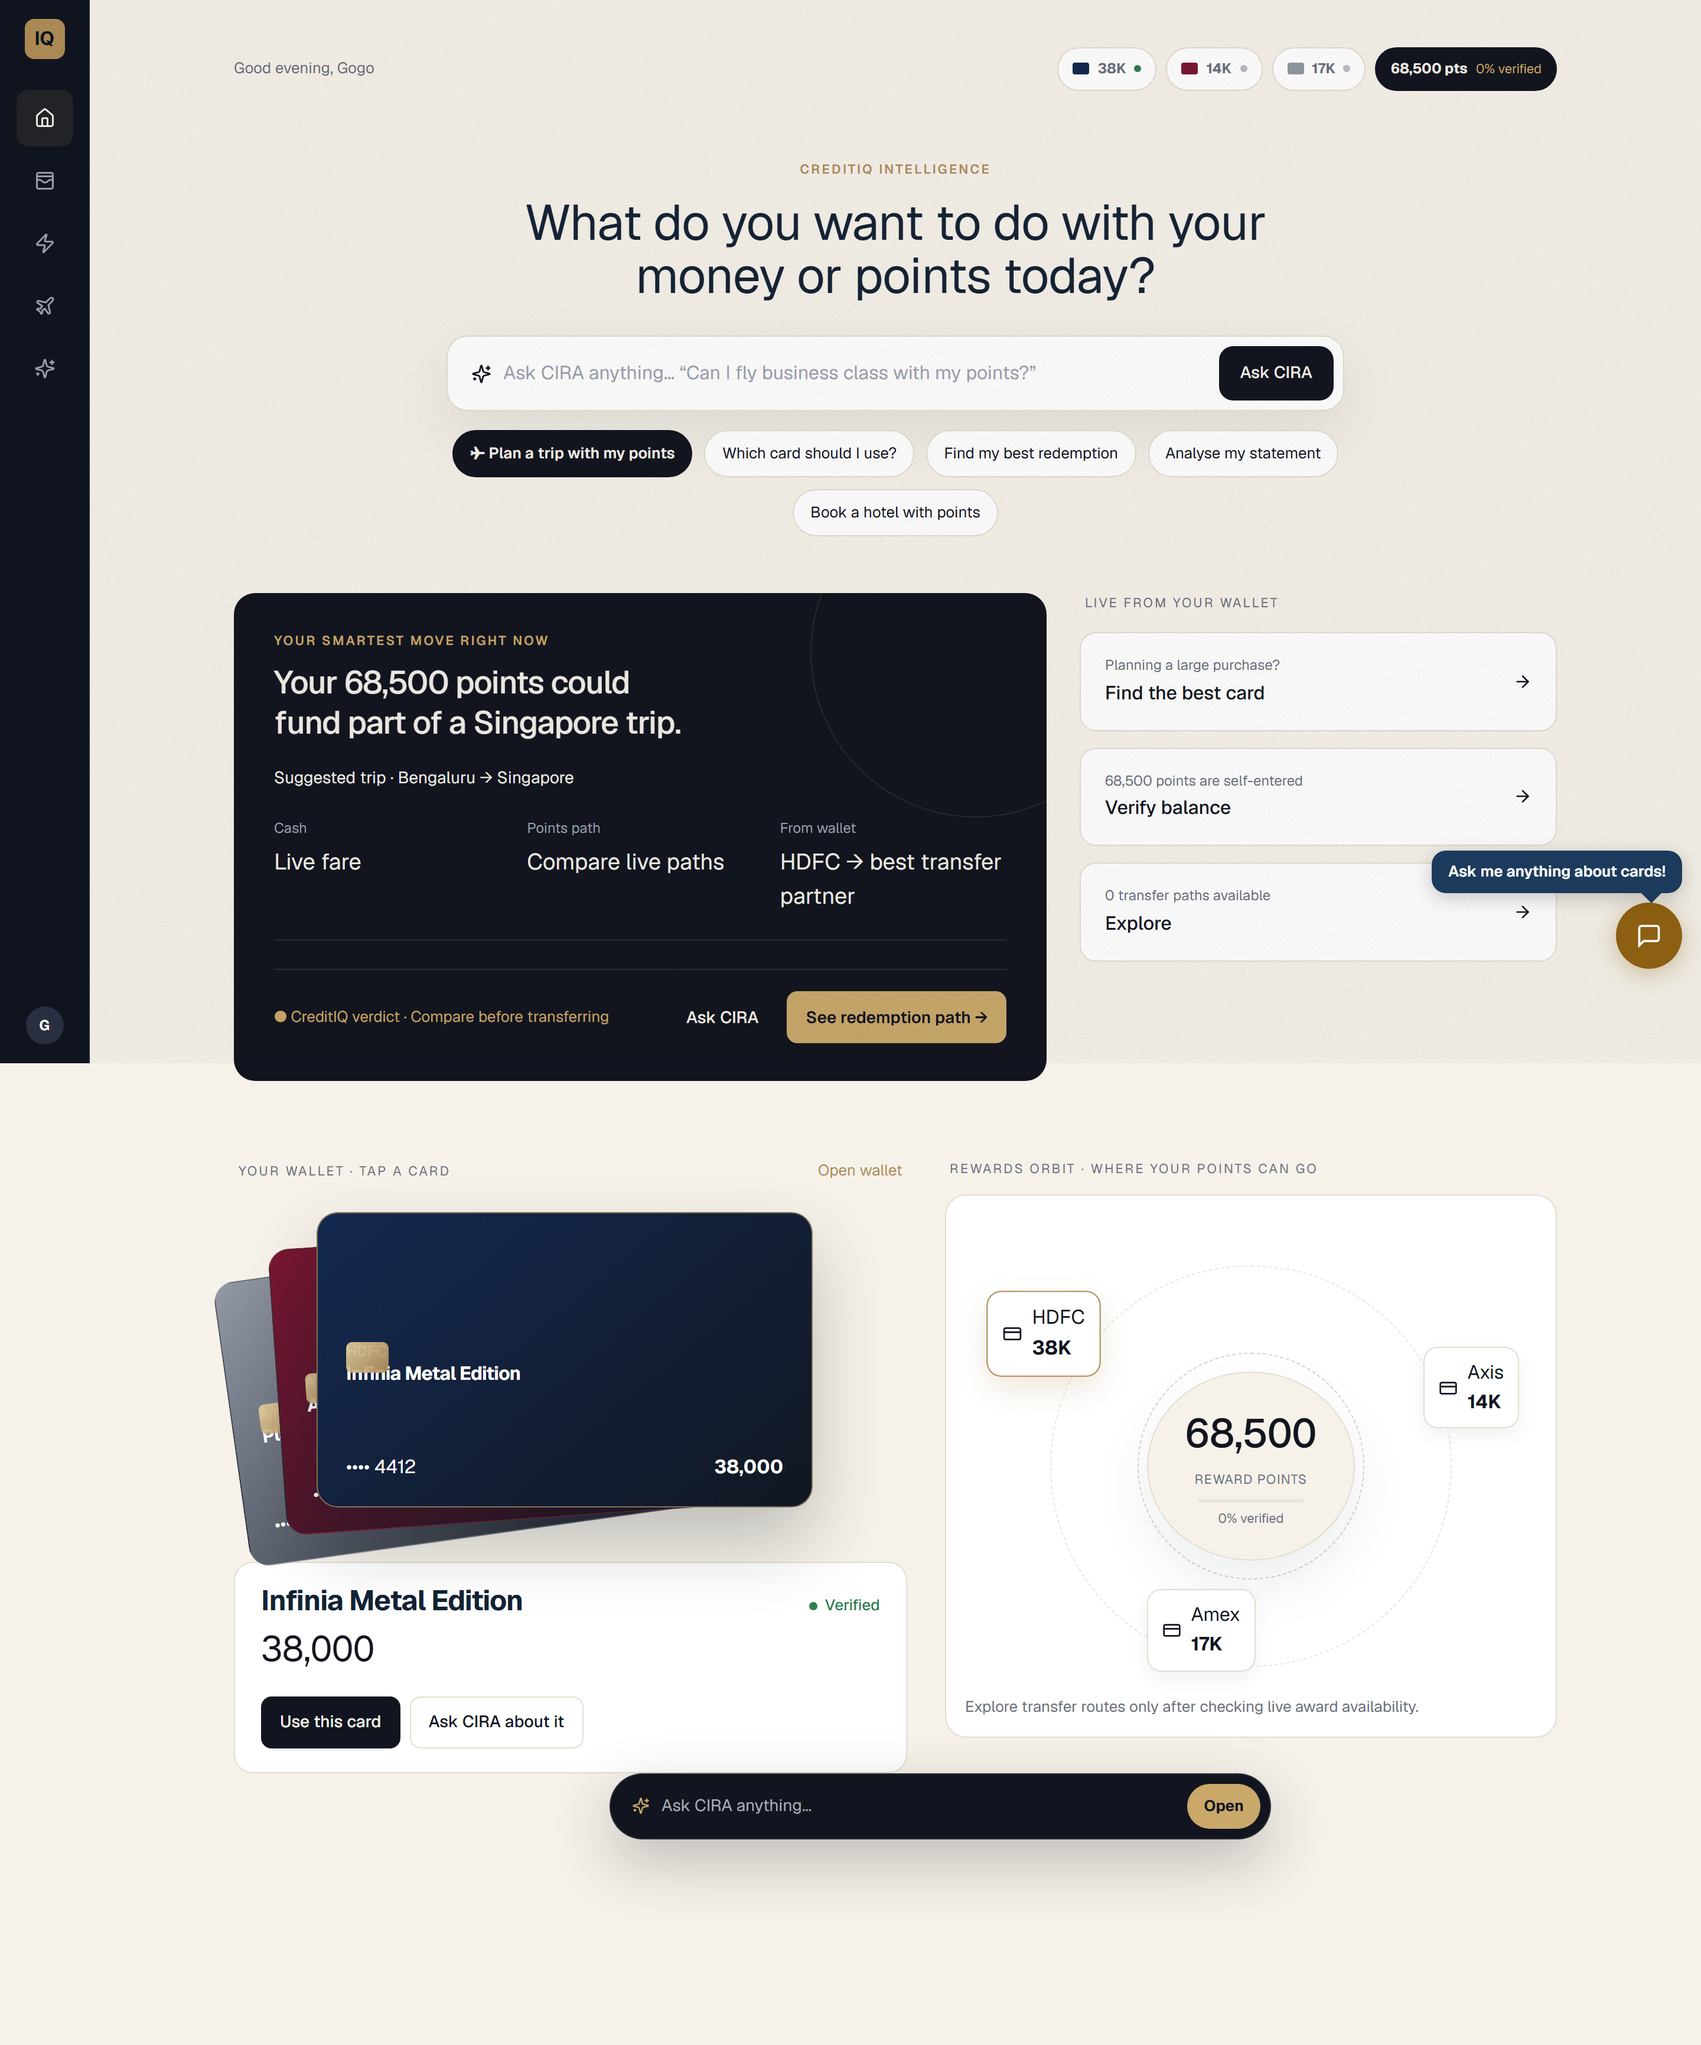
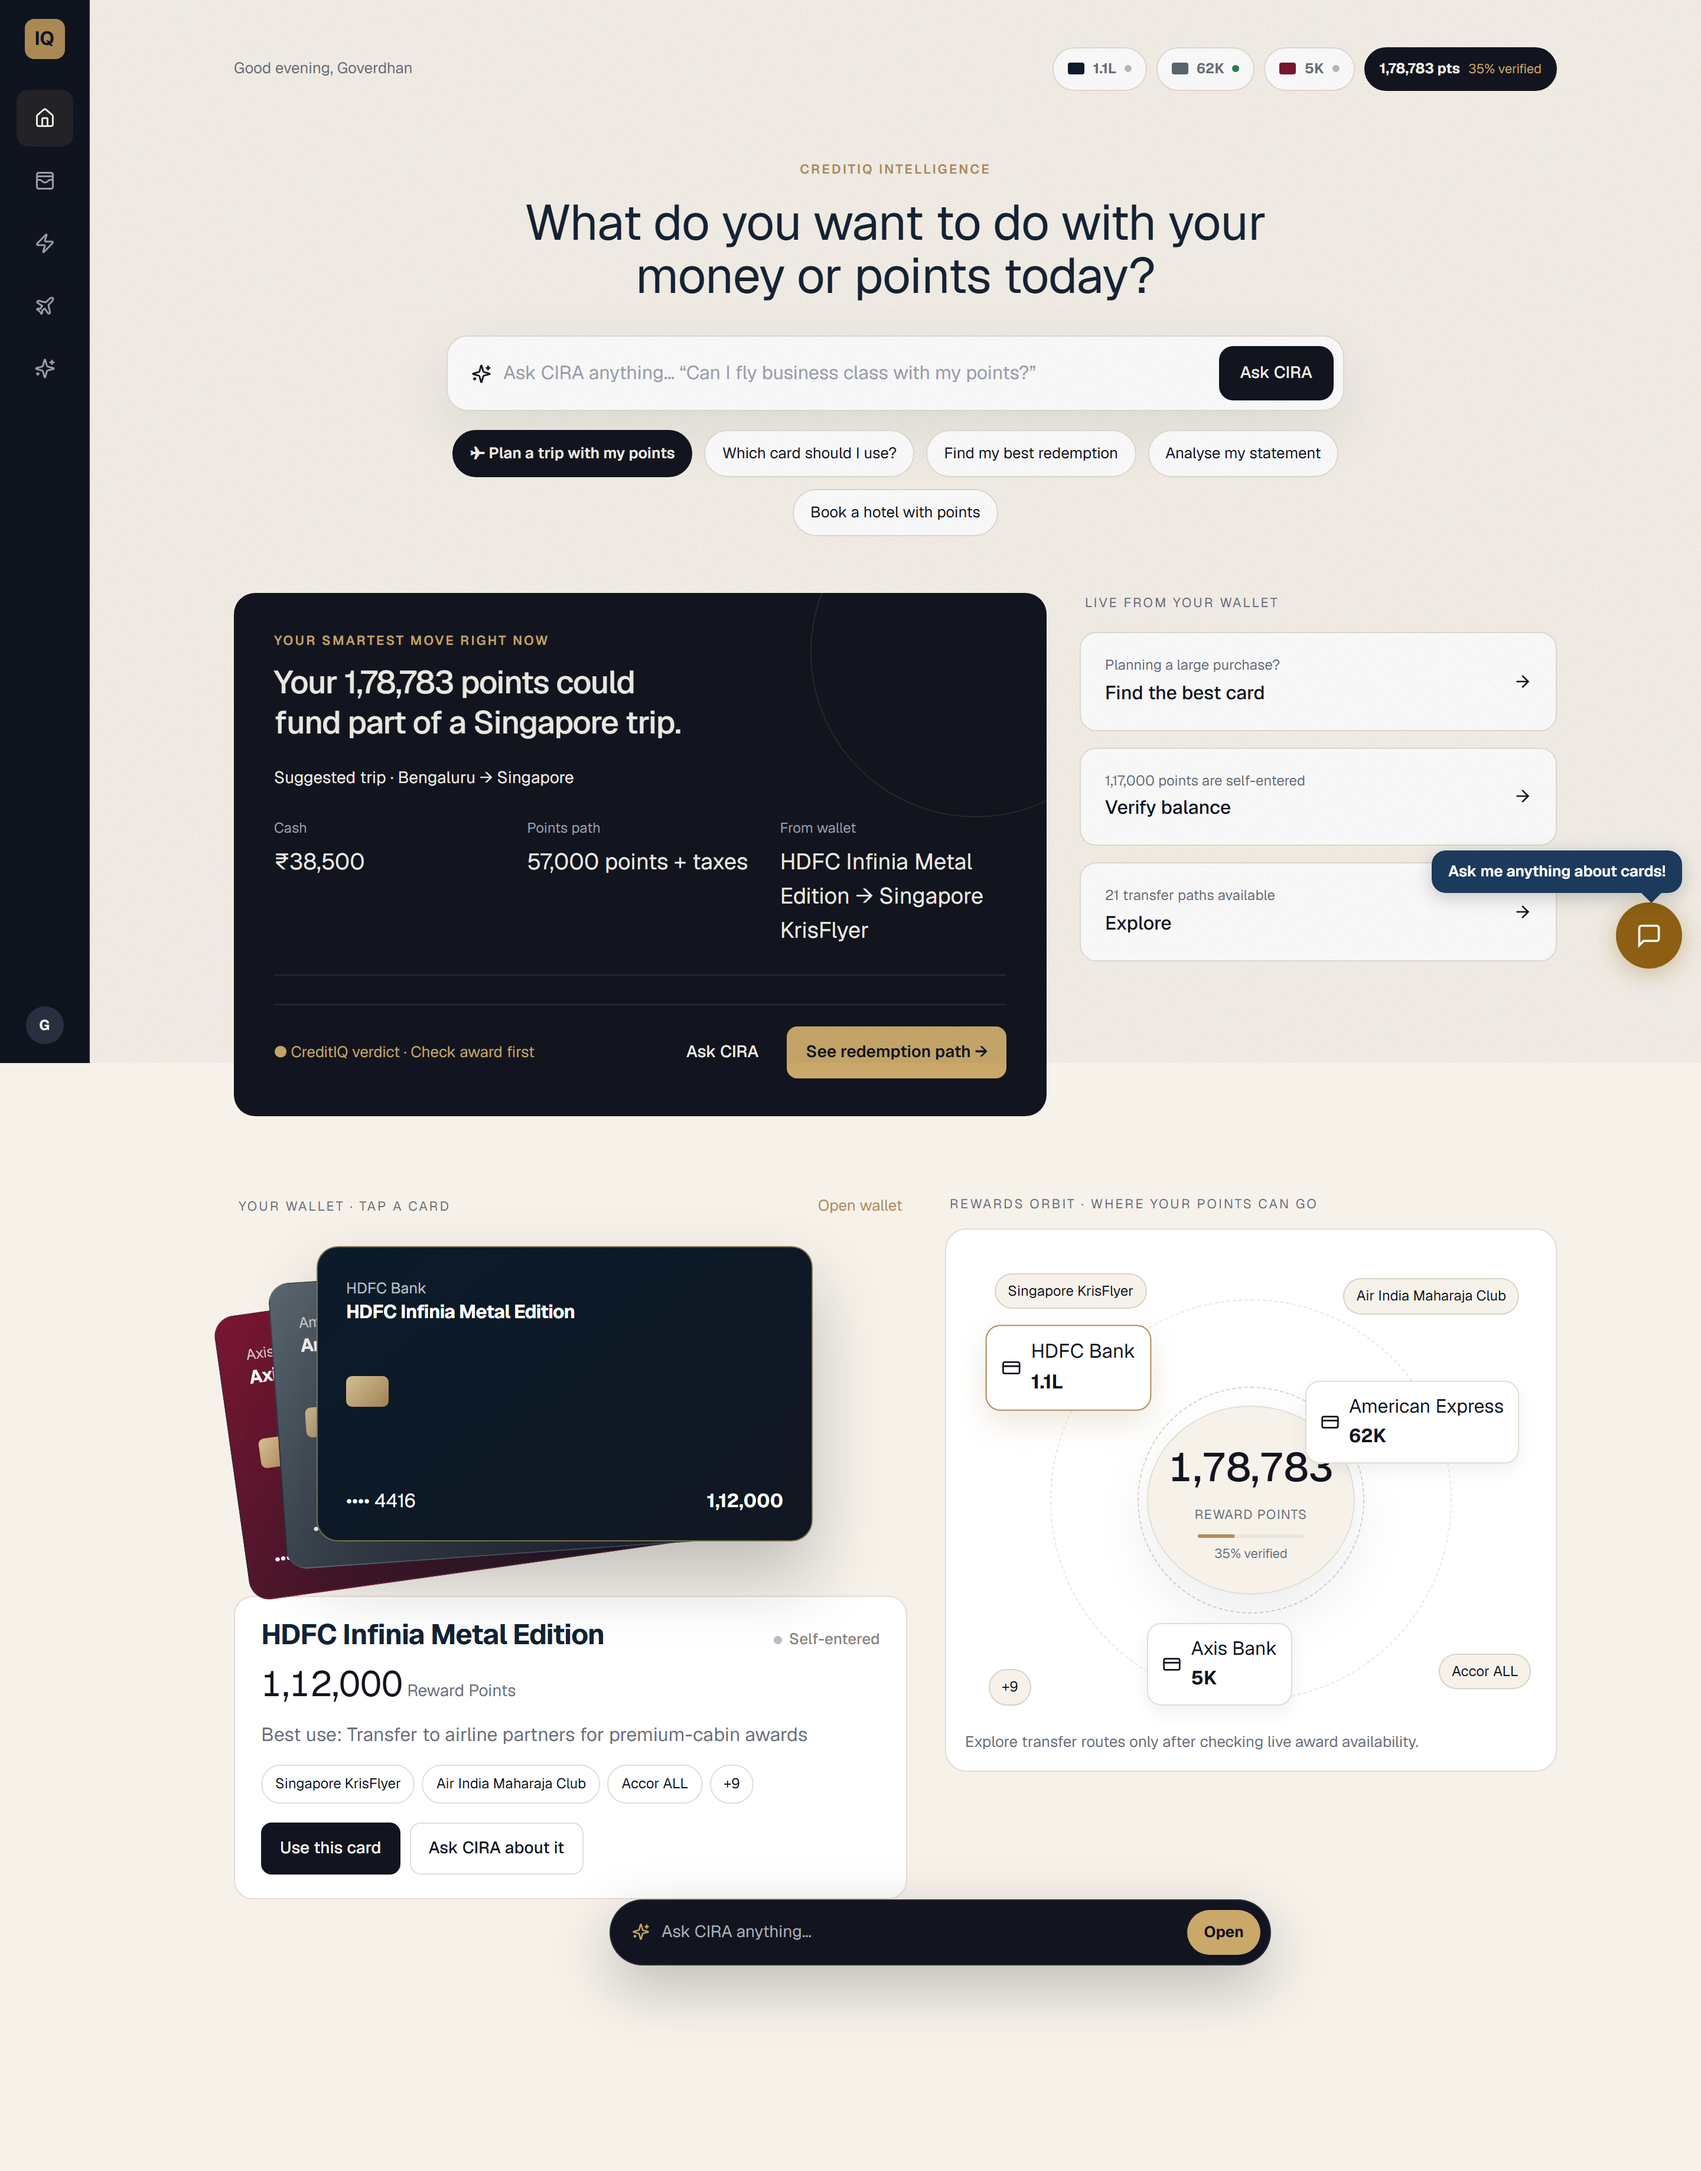
Cockpit: fix deck text-on-chip overlap and off-screen total pill (mobile)
With real signed-in data (long card names, 3 cards, +N partner pills) two
containment defects appeared that the empty unauthenticated fallback hid:

- The card <button> UA-centred its only in-flow child (the header) vertically,
  dropping the bank/name text onto the chip graphic at every width. Pin the
  header to the card top (flex-column, align-items:flex-start) so the name sits
  above the chip and truncates with an ellipsis instead of overlapping it. On
  the 156px mobile card the two-line header still reached the chip, so drop the
  chip into the clear band below the header.
- The mobile wallet-chips row was nowrap+scroll, pushing the dark total pill
  ("N pts / X% verified") off the right edge. Wrap it (as the design does) so
  the pill stays on-screen.

No typography, colour, spacing or proportion changes. Verified with per-element
getBoundingClientRect at 360/390/1440/1600: no element clips the viewport; the
only past-viewport elements are the deck cards inside the intended horizontal
scroller. Screenshots regenerated from a maximal worst-case fixture.

diff --git a/components/ciq/creditiq-cockpit.css b/components/ciq/creditiq-cockpit.css
@@ -50,7 +50,10 @@
 .cq-section-head{display:flex;justify-content:space-between;align-items:baseline;gap:12px;padding:0 4px 8px;font-size:11px;letter-spacing:.14em;text-transform:uppercase;color:var(--cq-muted)}
 .cq-section-head a,.cq-section-head button{font-size:13px;color:var(--cq-gold);text-transform:none;letter-spacing:0;background:transparent;border:0;text-decoration:none;cursor:pointer}
 .cq-deck{position:relative;height:300px}
-.cq-card{position:absolute;left:0;width:min(420px,calc(100% - 100px));height:250px;border-radius:18px;color:#fff;padding:22px 24px;text-align:left;border:1px solid rgba(255,255,255,.08);cursor:pointer;transition:transform .35s cubic-bezier(.2,.8,.2,1),box-shadow .35s;font:inherit}
+/* display:flex + flex-start pins the header to the card top. Without it, the
+   <button> UA-centres its only in-flow child (the header) vertically, dropping the
+   bank/name text onto the chip graphic (top:40/44%) at every width. */
+.cq-card{position:absolute;left:0;width:min(420px,calc(100% - 100px));height:250px;border-radius:18px;color:#fff;padding:22px 24px;text-align:left;border:1px solid rgba(255,255,255,.08);cursor:pointer;transition:transform .35s cubic-bezier(.2,.8,.2,1),box-shadow .35s;font:inherit;display:flex;flex-direction:column;align-items:flex-start}
 .cq-card.selected{left:70px;top:12px;z-index:3;transform:scale(1);box-shadow:0 30px 60px rgba(18,21,31,.24);border-color:rgba(201,168,106,.6)}
 .cq-card.stack1{top:26px;z-index:2;transform:translateX(30px) rotate(-4deg) scale(.97)}
 .cq-card.stack2{top:40px;z-index:1;transform:translateX(-10px) rotate(-8deg) scale(.97)}
@@ -235,8 +238,9 @@
      deck scrolls internally instead of clipping its siblings. */
   .ciq-cockpit .cq-lower>div,
   .ciq-cockpit .cq-work>*{min-width:0}
-  .ciq-cockpit .cq-wallet-chips{overflow-x:auto;flex-wrap:nowrap;padding-bottom:3px;scrollbar-width:none}
-  .ciq-cockpit .cq-wallet-chips::-webkit-scrollbar{display:none}
+  /* Wrap (as the design does) rather than nowrap+scroll — otherwise the dark total
+     pill ("N pts / X% verified") is pushed off the right edge on a 360/390 phone. */
+  .ciq-cockpit .cq-wallet-chips{flex-wrap:wrap;gap:6px}
   .ciq-cockpit .cq-wallet-chip{flex:0 0 auto}
   .ciq-cockpit .cq-panel-dark{min-height:0}
   .ciq-cockpit .cq-trip-grid{gap:12px}
@@ -248,7 +252,9 @@
   .ciq-cockpit .cq-card{scroll-snap-align:start}
   .ciq-cockpit .cq-card h3{font-size:15px;line-height:1.2;margin:4px 0 0;max-width:85%;overflow:hidden;text-overflow:ellipsis;white-space:nowrap}
   .ciq-cockpit .cq-card-bottom{left:16px;right:16px}
-  .ciq-cockpit .cq-card-chip{left:16px}
+  /* Card is only 156px tall on mobile, so the two-line header (bank + name) reaches
+     ~69px. Drop the chip into the clear band below it, above the bottom row. */
+  .ciq-cockpit .cq-card-chip{left:16px;top:auto;bottom:48px}
 
   /* The Claude artifact scales a 520x440 orbit to ~66% on phones. Our live
      component has no orbit wrapper, so scale the geometry itself. */
